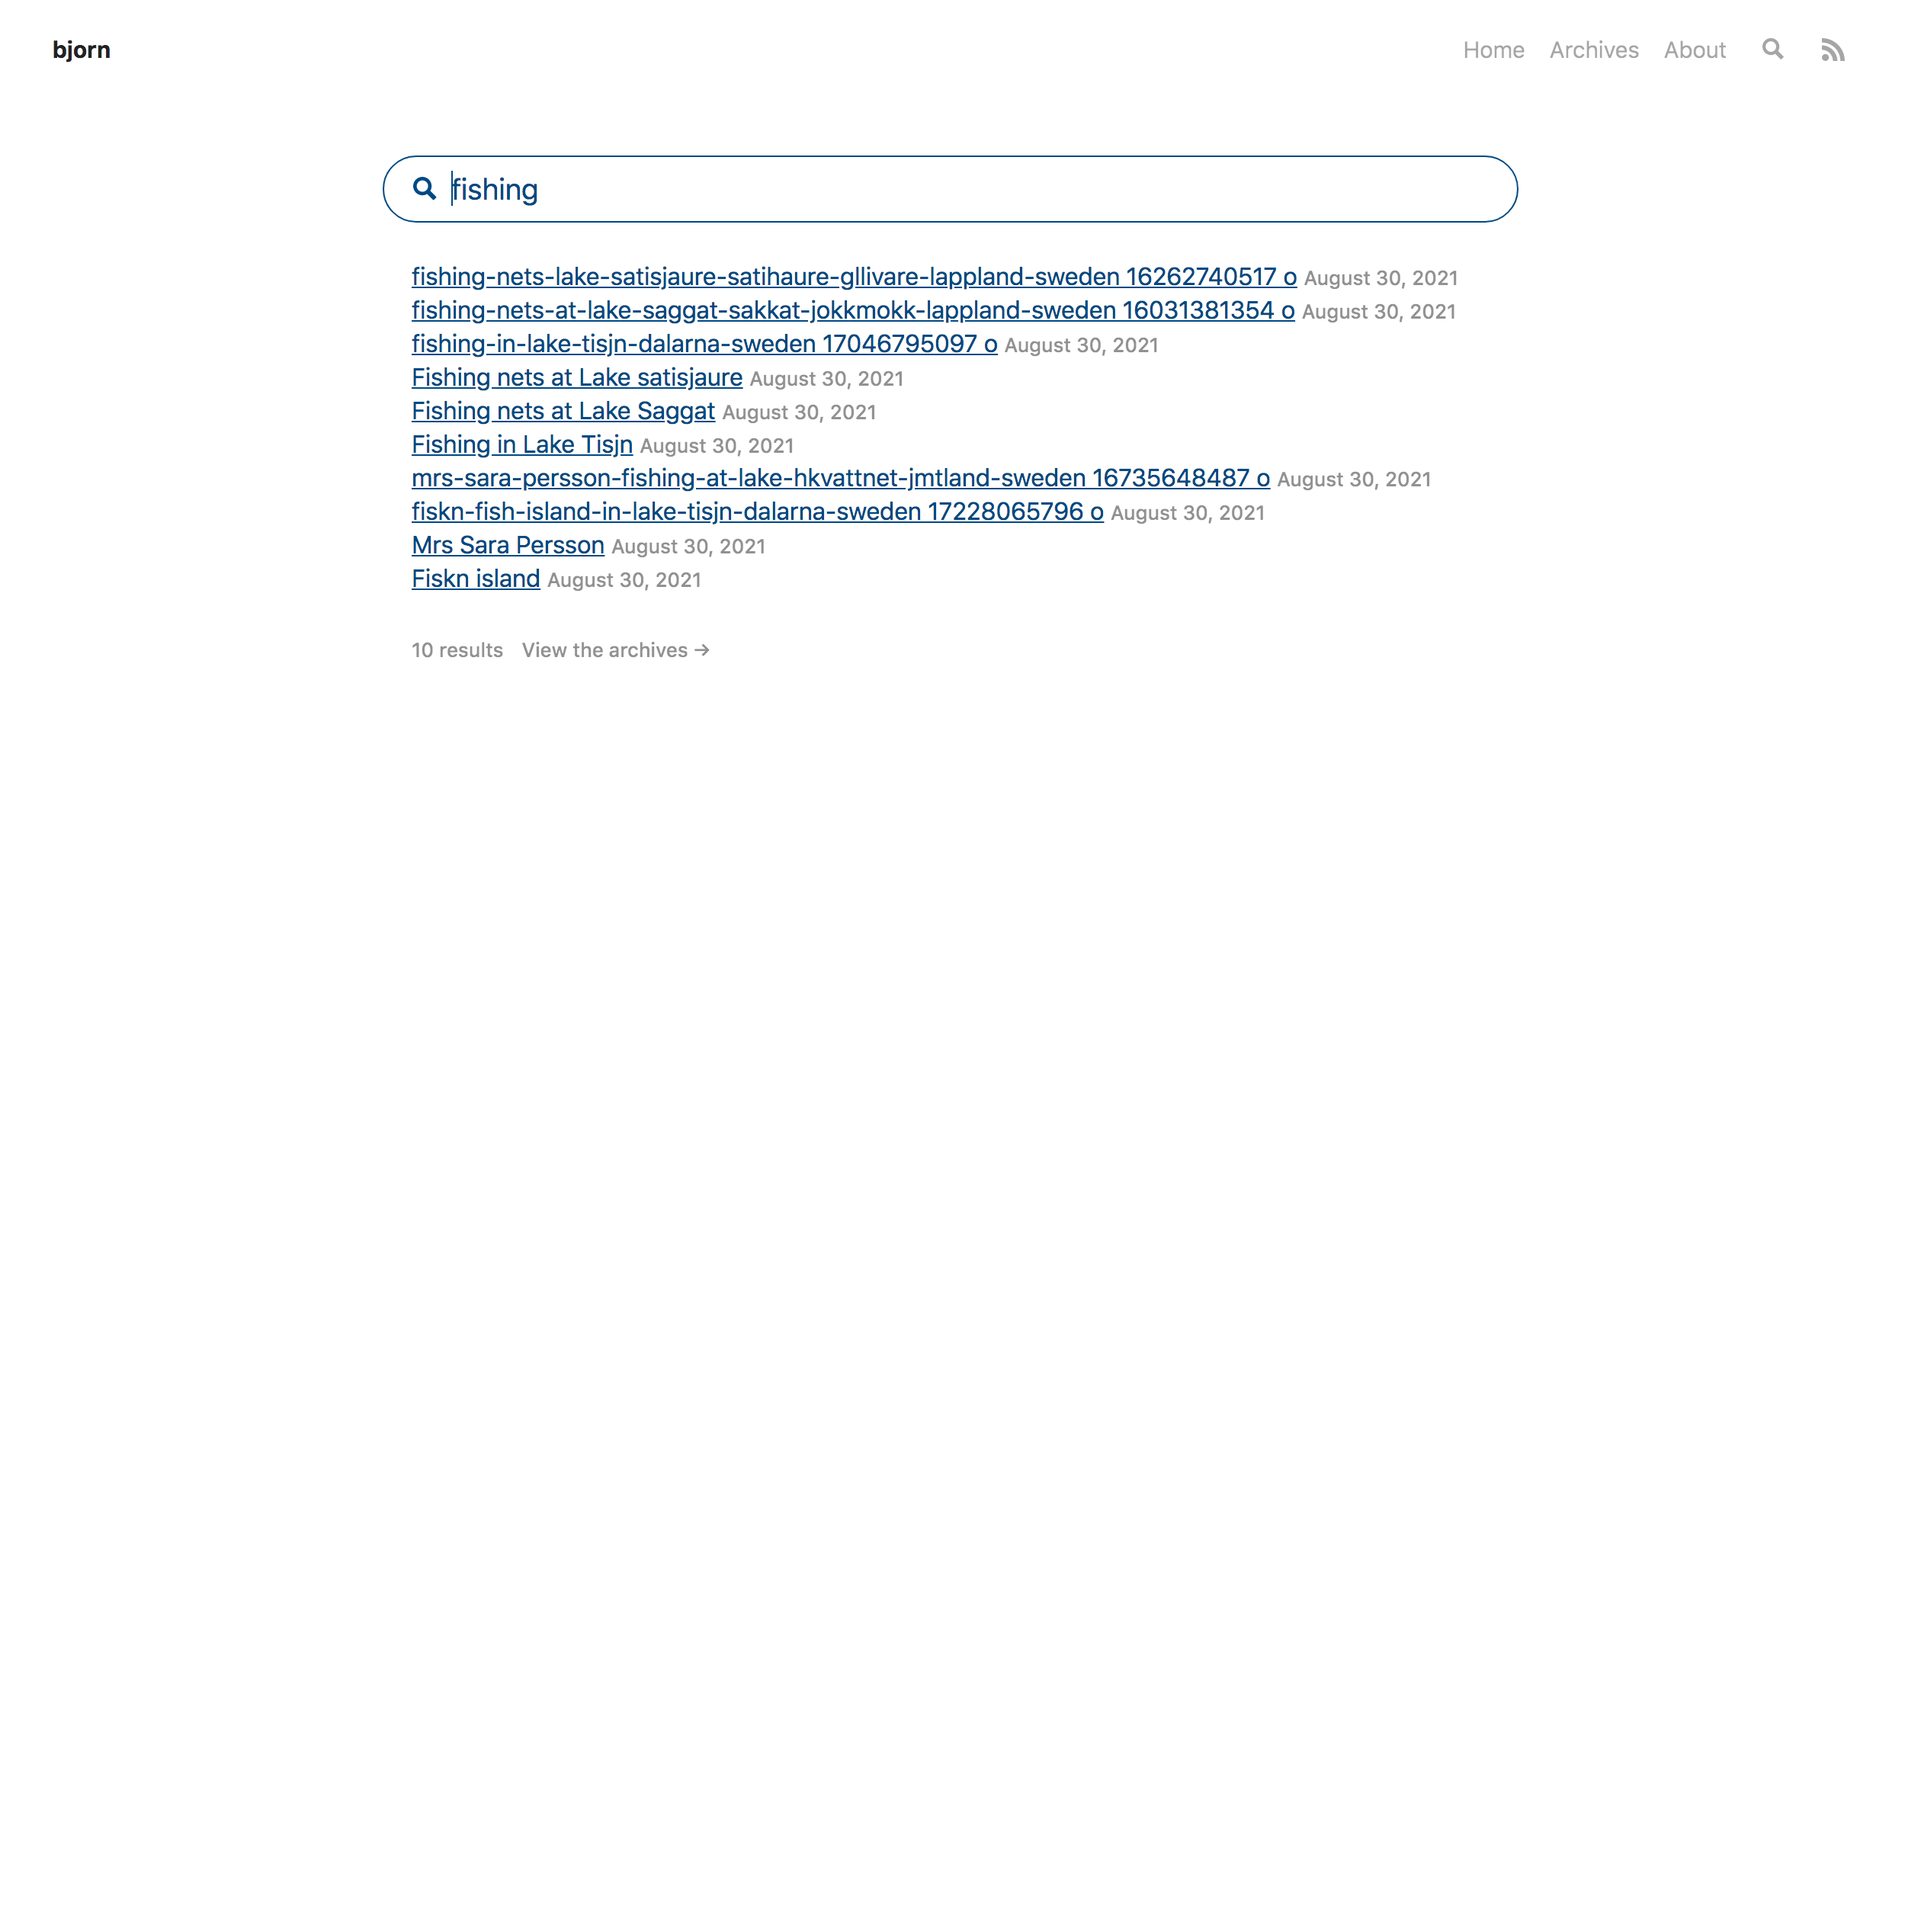
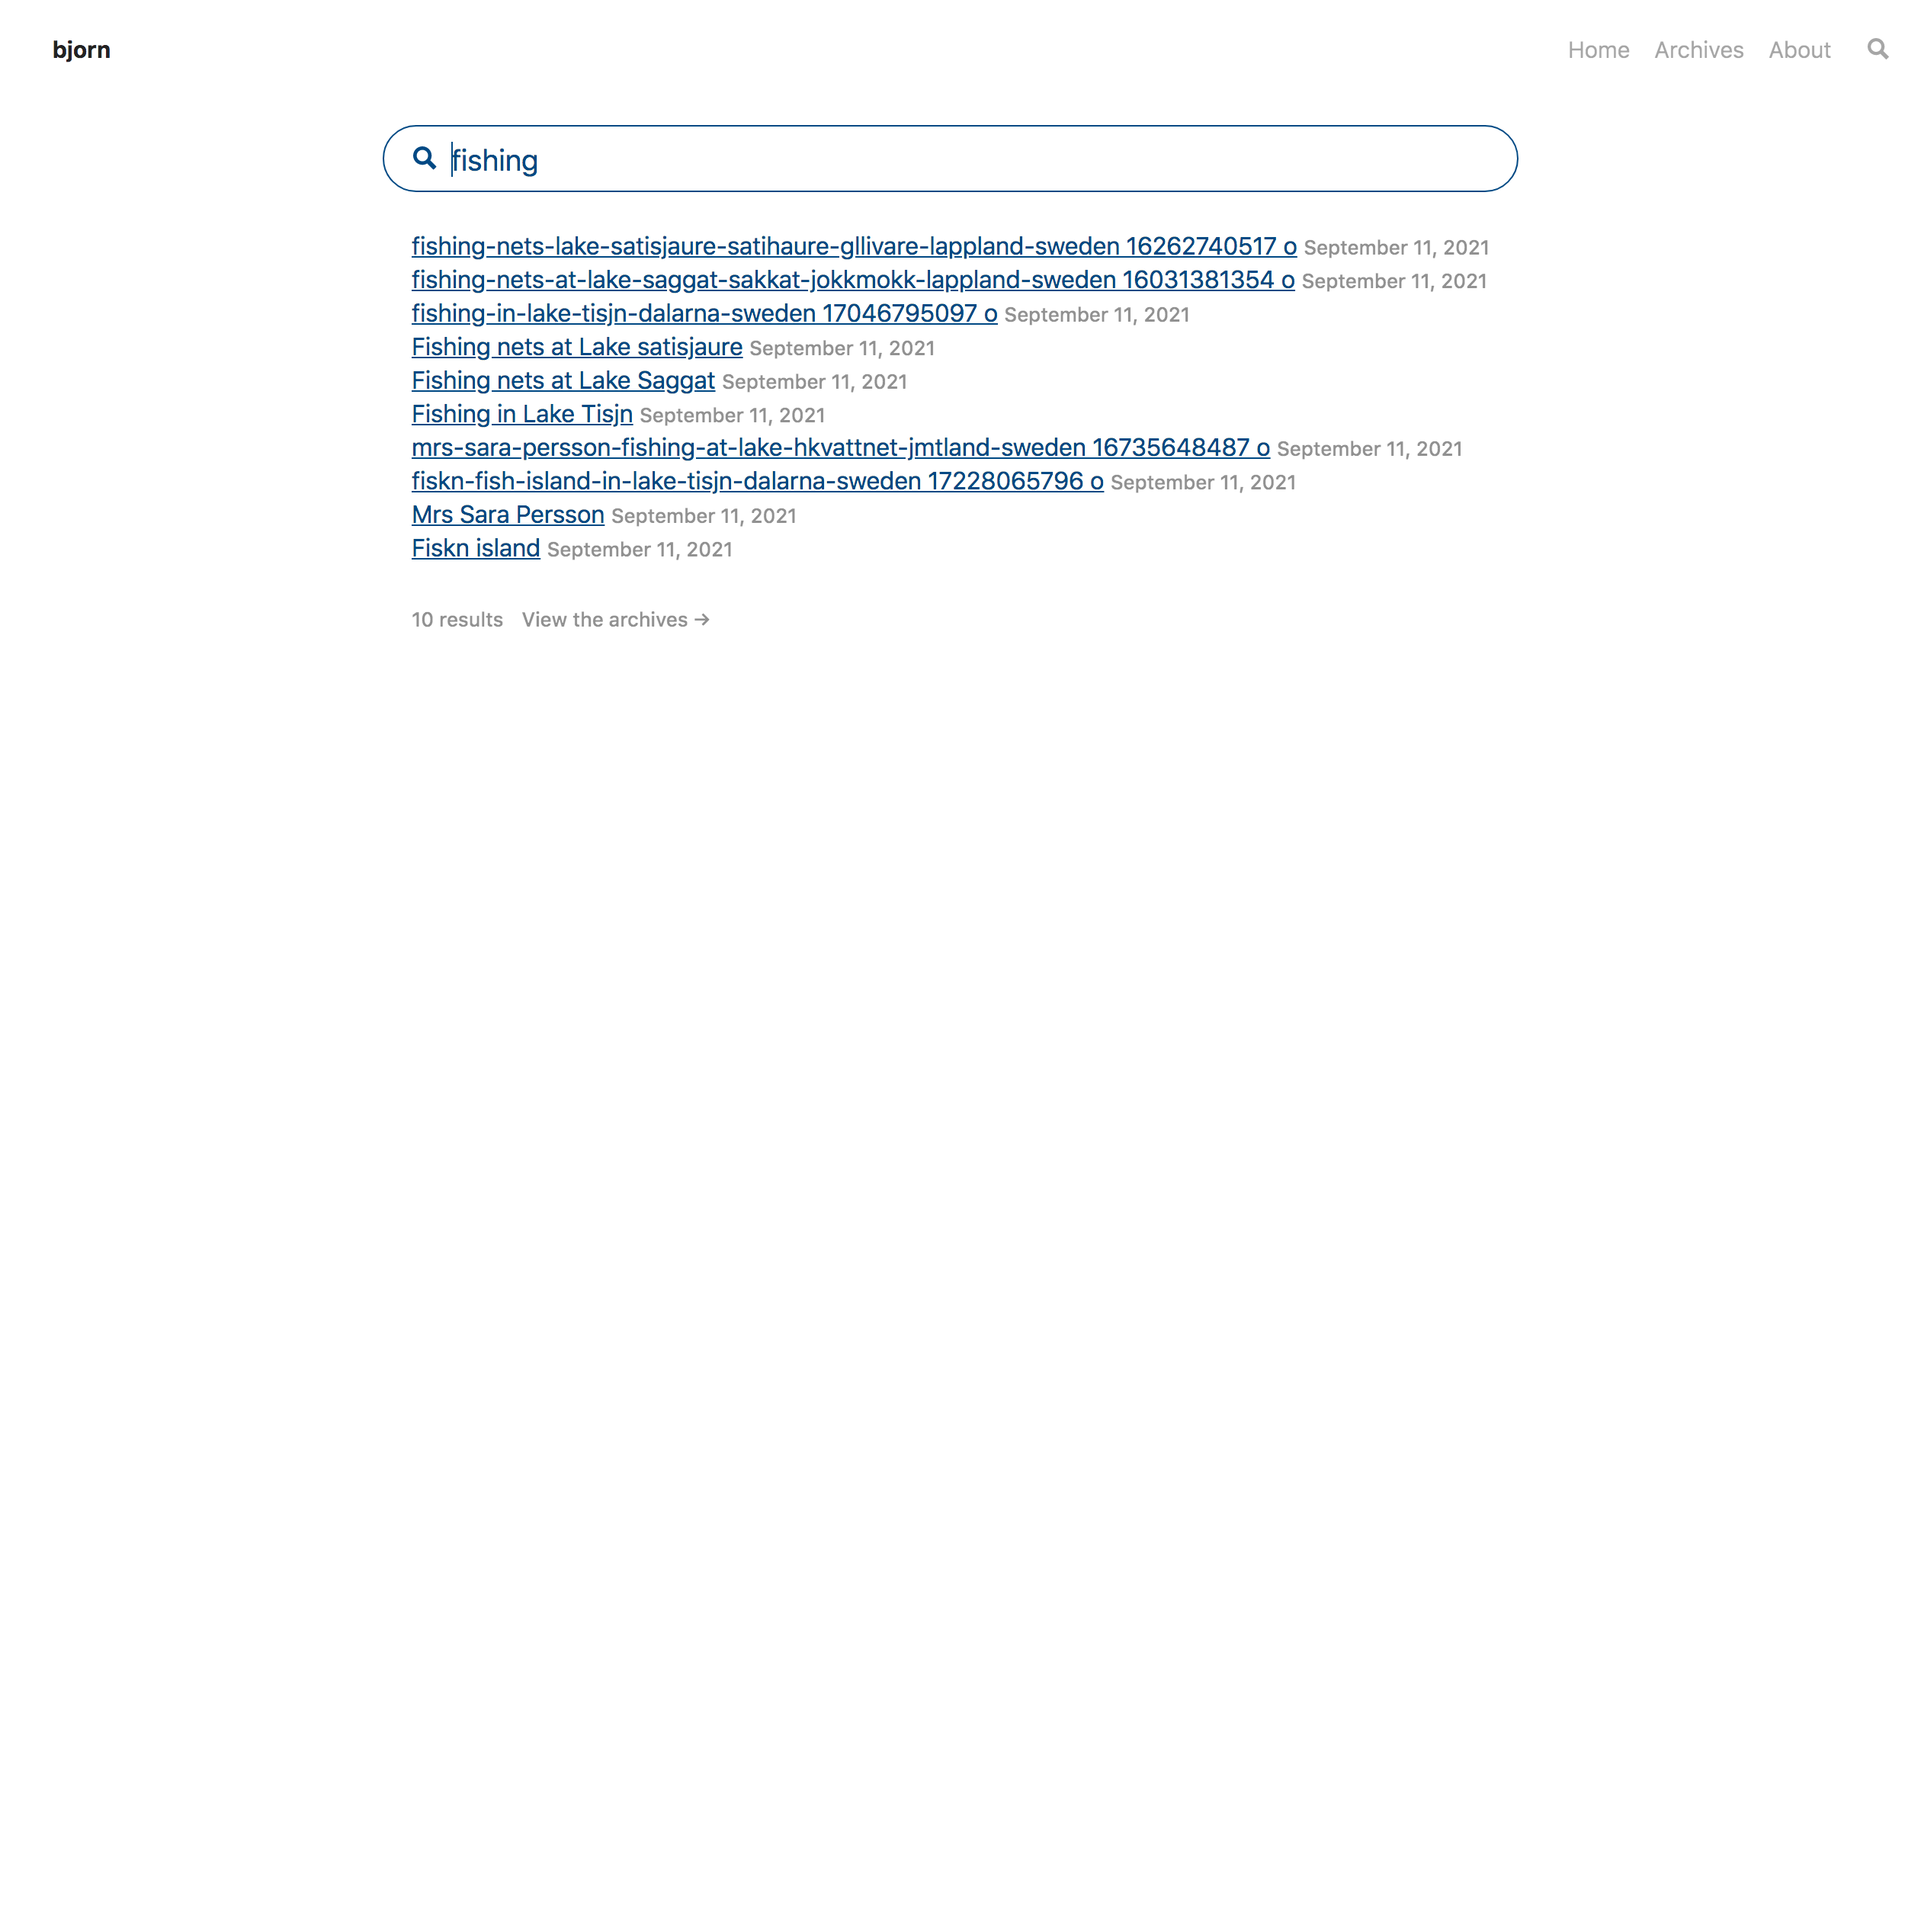
Updates template screenshots

diff --git a/scripts/template/screenshots.js b/scripts/template/screenshots.js
@@ -1,8 +1,11 @@
 // todo turn this into a github action? runs when changes made automatically?
 
 const screenshot = require("helper/screenshot");
+const imageminify = require("helper/imageminify");
 const async = require("async");
 const config = require("config");
+const sharp = require("sharp");
+const { dirname, basename, extname } = require("path");
 const VIEW_DIRECTORY =
   require("helper/rootDir") + "/app/brochure/views/templates";
 
@@ -15,7 +18,7 @@ const SCREENSHOTS = {
     handle: "interviews",
     pages: ["/", "/archives"],
   },
-  photobook: {
+  photo: {
     handle: "bjorn",
     pages: ["/", "/archives"],
   },
@@ -38,9 +41,52 @@ async.eachOfSeries(
       function (page, next) {
         const url = baseURL + page;
         const path = `${VIEW_DIRECTORY}/${template}/${pages.indexOf(page)}.png`;
-        console.log(url);
-        console.log(path);
-        screenshot(url, path, next);
+        const mediumPath = `${VIEW_DIRECTORY}/${template}/${pages.indexOf(
+          page
+        )}.medium.png`;
+        const smallPath = `${VIEW_DIRECTORY}/${template}/${pages.indexOf(
+          page
+        )}.small.png`;
+        console.log("screenshotting", url);
+        screenshot(url, path, (err) => {
+          if (err) return next(err);
+
+          const resize = ({ label, width }) =>
+            sharp(path)
+              .resize({ width })
+              .toFile(
+                `${dirname(path)}/${basename(
+                  path,
+                  extname(path)
+                )}-${label}${extname(path)}`
+              );
+
+          Promise.all(
+            [
+              { label: "medium", width: 1120 },
+              { label: "small", width: 306 },
+            ].map(resize)
+          ).then(() => {
+            console.log("complete");
+            next();
+          });
+
+          // console.log("resizing", path);
+          // sharp(path)
+          //   .resize({ width: 1120 }) // 2x the width of the image when viewed
+          //   .toFile(mediumPath)
+          //   .resize({ width: 306 }) // 2x the width of the image when viewed
+          //   .toFile(smallPath)
+          //   .then(() => {
+          //     console.log("minifying", smallPath);
+          //     next();
+          //     // imageminify(smallPath, (err) => {
+          //     //   if (err) return next(err);
+          //     //   console.log("minified", smallPath);
+          //     //   next();
+          //     // });
+          //   });
+        });
       },
       next
     );

diff --git a/app/brochure/views/templates/index.html b/app/brochure/views/templates/index.html
@@ -21,7 +21,7 @@
     <a href="/templates/blog">
       <strong>Blog</strong>
       <small>For short posts, photos and links</small>
-      <img src="/templates/blog/0.png?size=thumbnail&amp;extension=.png">
+      <img src="/templates/blog/0-small.png">
     </a>
   </li>
   
@@ -29,7 +29,7 @@
     <a href="/templates/magazine">
       <strong>Magazine</strong>
       <small>For long portfolios</small>
-      <img src="/templates/magazine/0.png?size=thumbnail&amp;extension=.png">
+      <img src="/templates/magazine/0-small.png">
     </a>
   </li>
 
@@ -37,7 +37,7 @@
     <a href="/templates/photo">
       <strong>Photo</strong>
       <small>For photos</small>
-      <img src="/templates/photo/0.png?size=thumbnail&amp;extension=.png">
+      <img src="/templates/photo/0-small.png">
     </a>
   </li>
 
@@ -45,7 +45,7 @@
     <a href="/templates/portfolio">
       <strong>Portfolio</strong>
       <small>For portfolios and code</small>
-      <img src="/templates/portfolio/0.png?size=thumbnail&amp;extension=.png">
+      <img src="/templates/portfolio/0-small.png">
     </a>
   </li>
 
@@ -53,7 +53,7 @@
     <a href="/templates/reference">
       <strong>Reference</strong>
       <small>For photos and links</small>
-      <img src="/templates/reference/0.png?size=thumbnail&amp;extension=.png">
+      <img src="/templates/reference/0-small.png">
     </a>
   </li>
 

diff --git a/app/brochure/views/templates/reference/index.html b/app/brochure/views/templates/reference/index.html
@@ -4,7 +4,7 @@
 <p>The Reference template is designed for a database of photos and links. It features a grid of small thumbnails for your posts on its index page. It prominently features the tags used on your site.</p>
 
 <figure>
-  <a class="screenshot" target="_blank" href="{{{preview}}}"><img src="/templates/reference/0.png?size=large&amp;extension=.png"></a>
+  <a class="screenshot" target="_blank" href="{{{preview}}}"><img src="/templates/reference/0-medium.png"></a>
   <figcaption>The homepage of the Reference template features a grid of recent posts with links to view the post in full. The post's title, generated from the image's filename, is displayed under each thumbnail.</figcaption>
 </figure>
 
@@ -13,7 +13,7 @@
 <p>You can navigate between the full posts page using the arrows on the left and right. This is heavily designed around images.</p>
 
 <figure>
-  <a class="screenshot" target="_blank" href="{{{preview}}}/iems-l29-4"><img src="/templates/reference/1.png?size=large&amp;extension=.png"></a>
+  <a class="screenshot" target="_blank" href="{{{preview}}}/iems-l29-4"><img src="/templates/reference/1-medium.png"></a>
   <figcaption>The post page of the Reference template features a grid of recent posts with links to view the post in full.</figcaption>
 </figure>
 

diff --git a/app/brochure/views/templates/portfolio/index.html b/app/brochure/views/templates/portfolio/index.html
@@ -9,7 +9,7 @@
 
 <figure>
 	<a class="screenshot" target="_blank" href="{{{preview}}}"
-		><img src="/templates/portfolio/0.png?size=large&amp;extension=.png"
+		><img src="/templates/portfolio/0-medium.png"
 	/></a>
 	<figcaption>
 		The homepage of the Portfolio template features a list of recent posts with
@@ -24,7 +24,7 @@
 
 <p>
 	<a class="screenshot" href="{{{preview}}}/lappland"
-		><img src="/templates/portfolio/1.png?size=large&amp;extension=.png"
+		><img src="/templates/portfolio/1-medium.png"
 	/></a>
 </p>
 

diff --git a/app/brochure/views/templates/blog/index.html b/app/brochure/views/templates/blog/index.html
@@ -11,13 +11,13 @@
 	<a
 		class="screenshot"
 		href="{{{preview}}}/brief-encounters-with-jean-frédéric-maximilien-de-waldeck"
-		><img src="/templates/blog/0.png?size=large&amp;extension=.png"
+		><img src="/templates/blog/0-medium.png"
 	/></a>
 </p>
 
 <p>
 	<a class="screenshot" href="{{{preview}}}/search?q=polar+bears"
-		><img src="/templates/blog/1.png?size=large&amp;extension=.png"
+		><img src="/templates/blog/1-medium.png"
 	/></a>
 </p>
 

diff --git a/app/brochure/views/templates/magazine/index.html b/app/brochure/views/templates/magazine/index.html
@@ -11,13 +11,13 @@
 
 <p>
 	<a class="screenshot" href="https://magazine.blot.im"
-		><img src="/templates/magazine/0.png?size=large&amp;extension=.png"
+		><img src="/templates/magazine/0-medium.png"
 	/></a>
 </p>
 
 <p>
 	<a class="screenshot" href="https://magazine.blot.im"
-		><img src="/templates/magazine/1.png?size=large&amp;extension=.png"
+		><img src="/templates/magazine/1-medium.png"
 	/></a>
 </p>
 

diff --git a/app/brochure/views/templates/photo/index.html b/app/brochure/views/templates/photo/index.html
@@ -9,13 +9,13 @@
 
 <p>
 	<a class="screenshot" href="{{{preview}}}"
-		><img src="/templates/photo/0.png?size=large&amp;extension=.png"
+		><img src="/templates/photo/0-medium.png"
 	/></a>
 </p>
 
 <p>
 	<a class="screenshot" href="{{{preview}}}"
-		><img src="/templates/photo/1.png?size=large&amp;extension=.png"
+		><img src="/templates/photo/1-medium.png"
 	/></a>
 </p>
 
